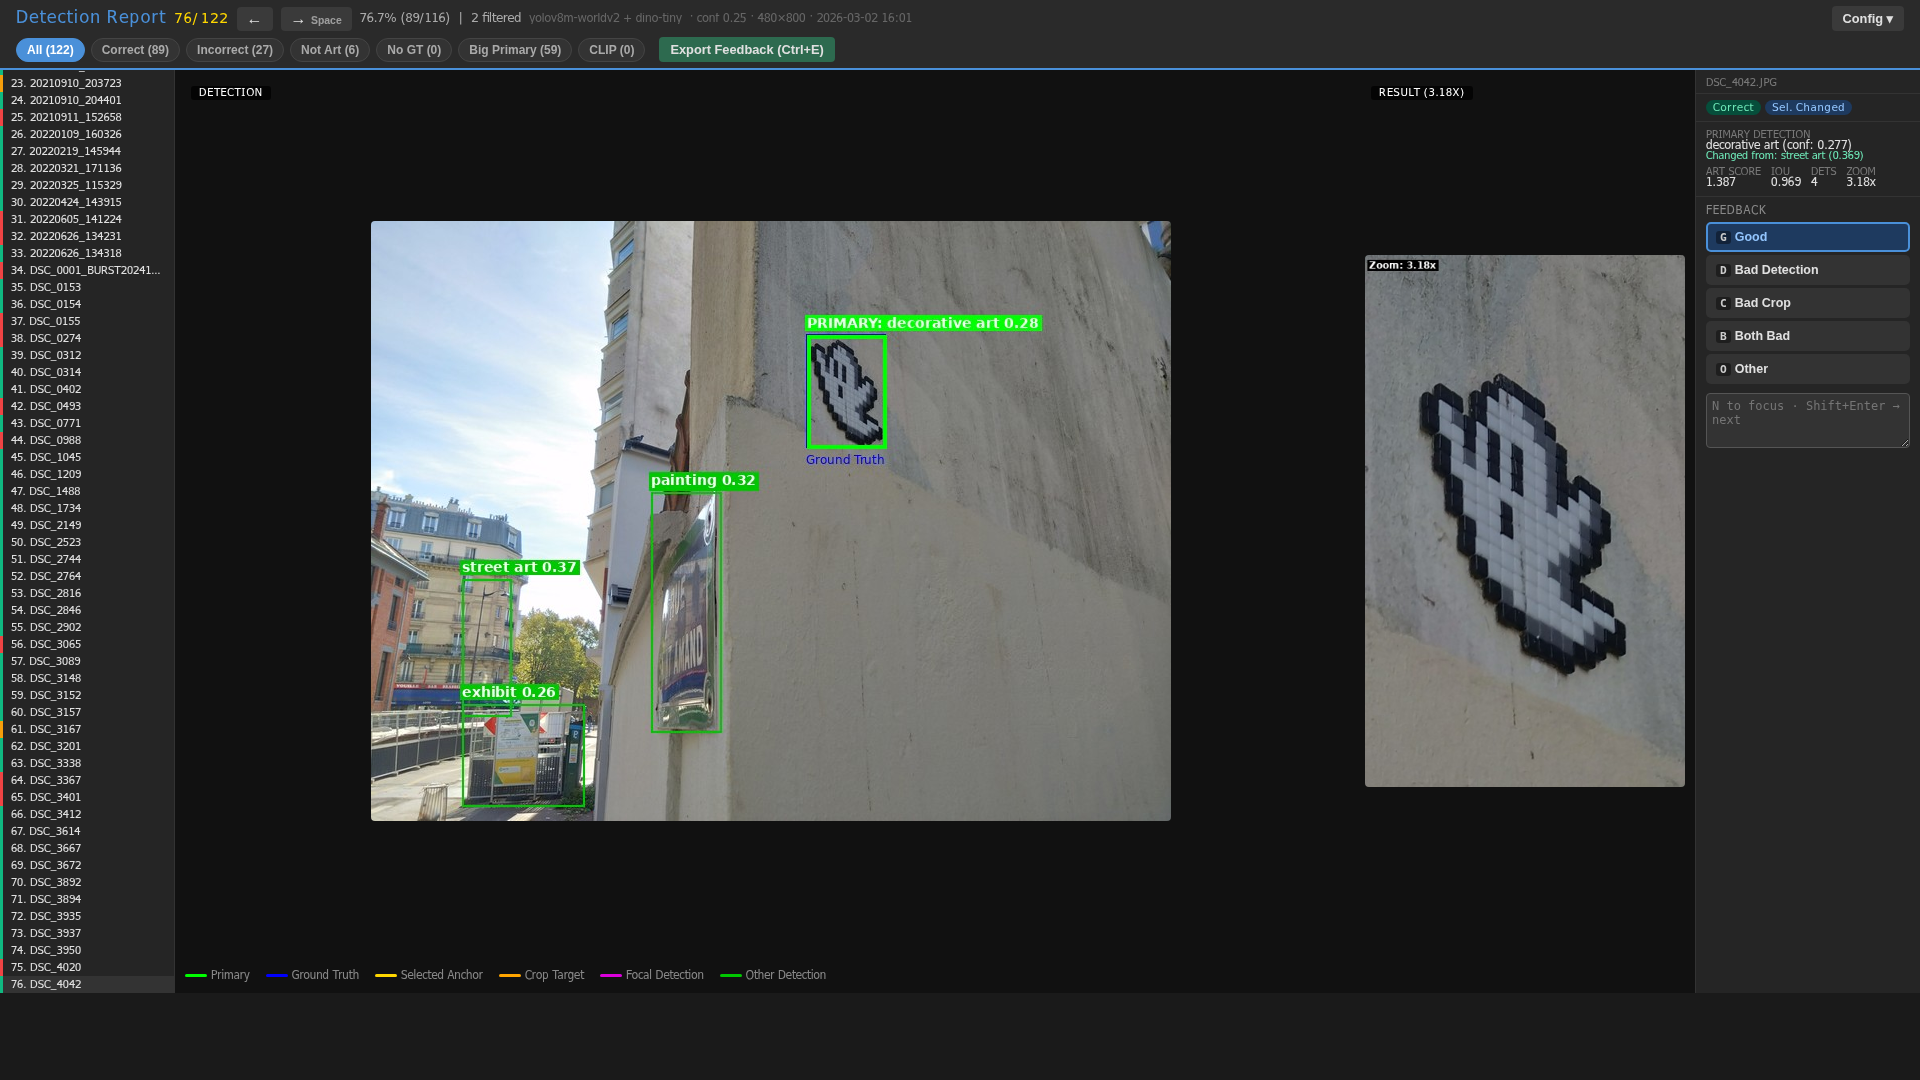
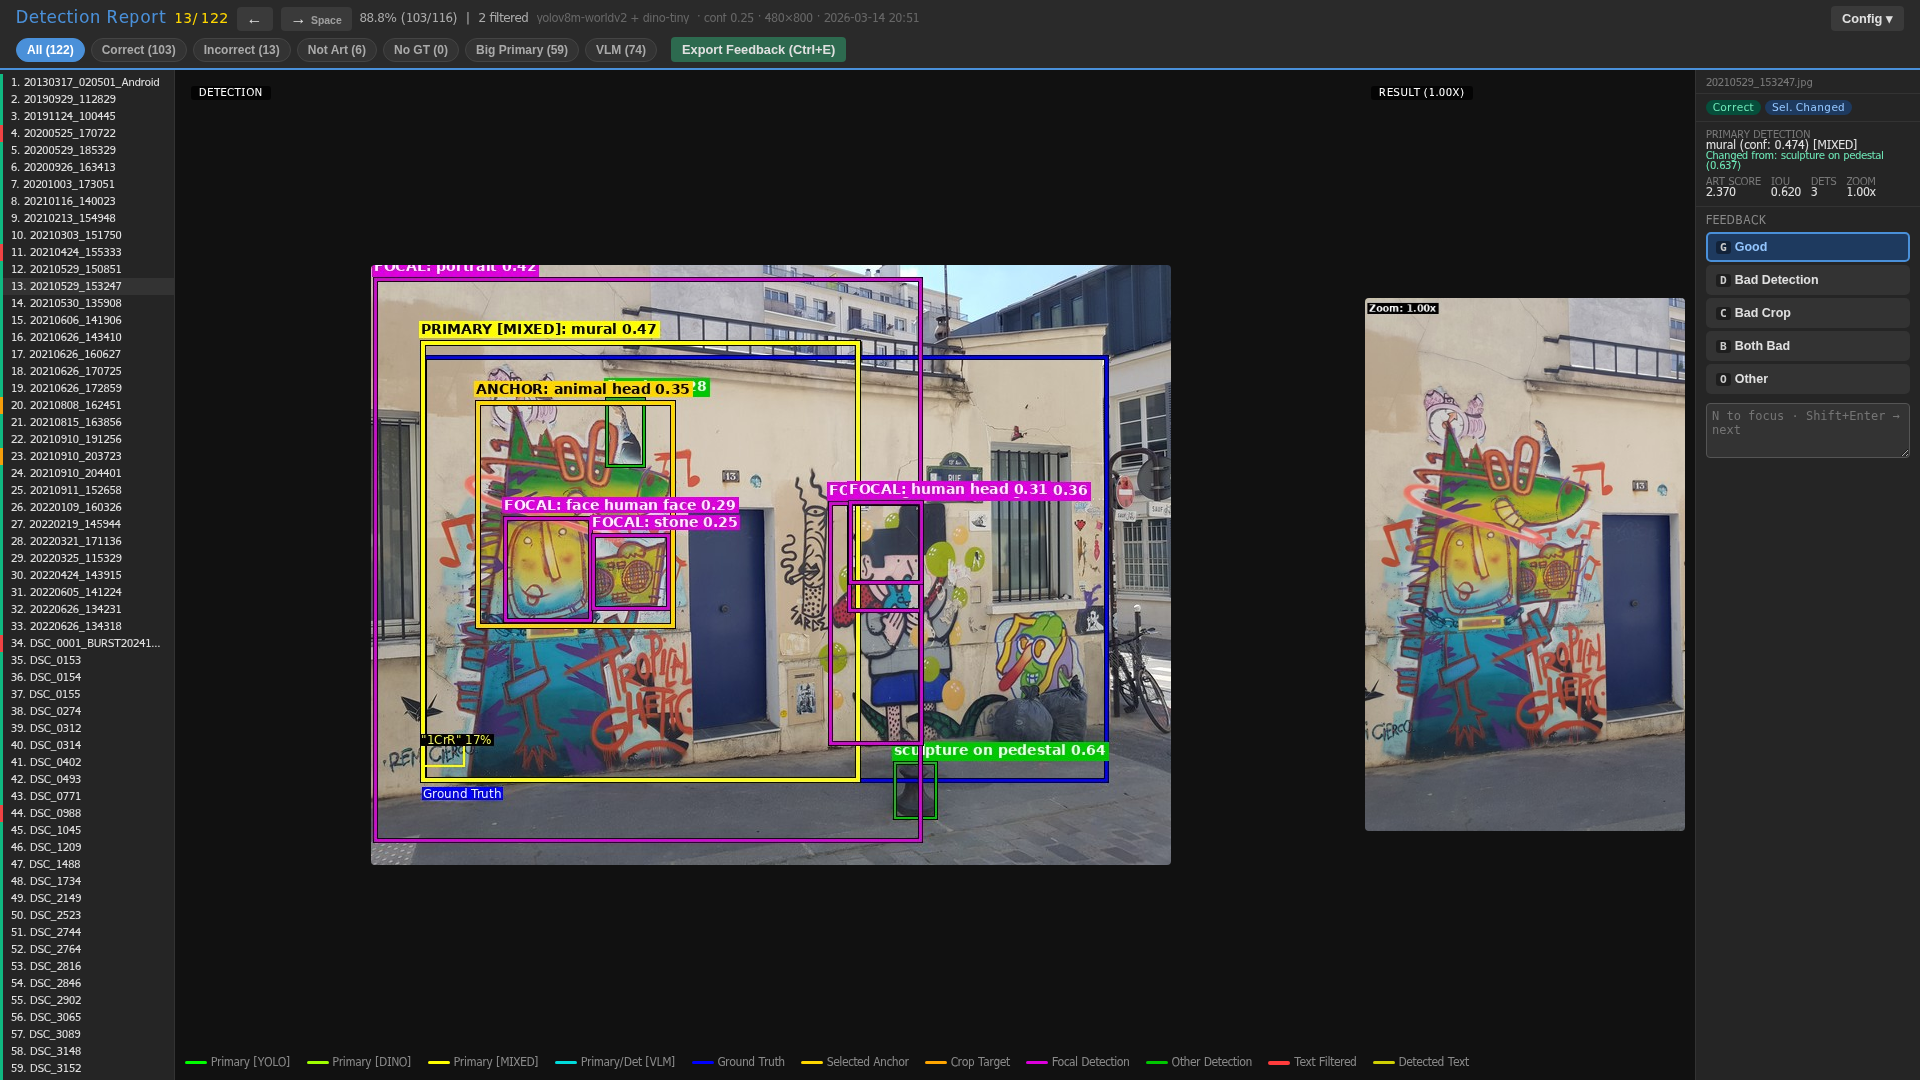
Update README, samples, unify defaults, and document conventions
Samples & README:
- Accuracy: 92% → 94% (115/122), text detection feature added
- New text detection sample (graffiti text filtered + art selected)
- FILTERED placeholder for non-art images in composites
- Updated report screenshot (20210529_153247)
- Sample script regenerates crops from current pipeline

Defaults:
- All defaults (VLM, multi-crop, vlm_max_image_size) now in defaults.py
  as single source of truth — CLI, batch, create_detector all reference it

Documentation:
- CLAUDE.md: sample generation command, pipeline/defaults conventions,
  commit rules for docs/README/samples

diff --git a/scripts/create_sample_composites.py b/scripts/create_sample_composites.py
@@ -1,12 +1,17 @@
 #!/usr/bin/env python3
-"""Create before/after composite images for the README."""
+"""Create before/after composite images and report screenshot for README.
 
+Regenerates crop outputs using the current pipeline (not from stale files).
+"""
+
+import sys
 from PIL import Image, ImageDraw, ImageOps
 from pathlib import Path
 
 BASE = Path(__file__).resolve().parent.parent
+sys.path.insert(0, str(BASE / "src"))
+
 INPUT = BASE / "test_real_images" / "input"
-OUTPUT = BASE / "test_real_images" / "output_optimized"
 SAMPLES = BASE / "samples"
 SAMPLES.mkdir(exist_ok=True)
 
@@ -15,19 +20,94 @@ PAD = 12
 GAP = 28
 BG = (24, 24, 24)
 
+# Lazy-loaded pipeline components
+_detector = None
+_cropper = None
+
+
+def _get_pipeline():
+    global _detector, _cropper
+    if _detector is None:
+        from frame_prep.cli import create_detector, create_cropper
+        from frame_prep import defaults
+        # Use same defaults as CLI (VLM on, multi-crop on, etc.)
+        _detector = create_detector(
+            single_model=False, ensemble=False, model=None,
+            confidence=None, no_two_pass=False, verbose=False)
+        _cropper = create_cropper(
+            width=defaults.TARGET_WIDTH, height=defaults.TARGET_HEIGHT,
+            zoom=defaults.ZOOM_FACTOR)
+    return _detector, _cropper
+
 
 def load_image(path):
     img = Image.open(path)
     return ImageOps.exif_transpose(img)
 
 
-def load_pair(name):
+def _find_input(name):
     for ext in (".JPG", ".jpg", ".jpeg", ".png"):
-        inp = INPUT / f"{name}{ext}"
-        if inp.exists():
-            break
-    out = OUTPUT / f"{name}.jpg"
-    return load_image(inp), load_image(out)
+        p = INPUT / f"{name}{ext}"
+        if p.exists():
+            return p
+    raise FileNotFoundError(f"No input found for {name}")
+
+
+def generate_crop(name):
+    """Generate a fresh crop using the current pipeline.
+
+    Returns None if the image is filtered as non-art.
+    """
+    from frame_prep.pipeline import run_detection_pipeline
+    from frame_prep import defaults
+
+    detector, cropper = _get_pipeline()
+    inp_path = _find_input(name)
+    img = load_image(inp_path)
+    result = run_detection_pipeline(img, detector, cropper, image_path=str(inp_path))
+    if result.art_score < defaults.MIN_ART_SCORE:
+        return None
+    cropped = cropper.crop_image(img, result.filtered_detections,
+                                  focal_detections=result.focal_detections)
+    return cropped
+
+
+def make_filtered_placeholder(width, height):
+    """Create a dark placeholder image with 'FILTERED' text."""
+    from PIL import ImageFont
+    img = Image.new("RGB", (width, height), (40, 40, 40))
+    draw = ImageDraw.Draw(img)
+    try:
+        font = ImageFont.truetype("/usr/share/fonts/truetype/dejavu/DejaVuSans-Bold.ttf", 42)
+    except Exception:
+        font = ImageFont.load_default()
+    label = "FILTERED"
+    bbox = draw.textbbox((0, 0), label, font=font)
+    tw, th = bbox[2] - bbox[0], bbox[3] - bbox[1]
+    draw.text(((width - tw) // 2, (height - th) // 2), label,
+              fill=(255, 80, 80), font=font)
+    # Subtitle
+    try:
+        small = ImageFont.truetype("/usr/share/fonts/truetype/dejavu/DejaVuSans.ttf", 20)
+    except Exception:
+        small = font
+    sub = "non-art (text)"
+    sb = draw.textbbox((0, 0), sub, font=small)
+    sw = sb[2] - sb[0]
+    draw.text(((width - sw) // 2, (height + th) // 2 + 10), sub,
+              fill=(180, 180, 180), font=small)
+    return img
+
+
+def load_pair(name):
+    inp_path = _find_input(name)
+    inp_img = load_image(inp_path)
+    out_img = generate_crop(name)
+    if out_img is None:
+        # Pipeline filtered this image — create placeholder
+        # Match the target aspect ratio (480x800)
+        out_img = make_filtered_placeholder(480, 800)
+    return inp_img, out_img
 
 
 def fit_height(img, h):
@@ -156,17 +236,54 @@ def create_composite(entries, out_name, pair_h=450):
     render(pair_data, pair_h, SAMPLES / out_name)
 
 
+def generate_multi_crops(name):
+    """Generate multi-crop outputs using the current pipeline."""
+    from frame_prep.pipeline import run_detection_pipeline
+
+    detector, cropper = _get_pipeline()
+    inp_path = _find_input(name)
+    img = load_image(inp_path)
+    result = run_detection_pipeline(img, detector, cropper, image_path=str(inp_path))
+    crops = cropper.crop_all_subjects(img, result.filtered_detections,
+                                       focal_detections=result.focal_detections)
+    return [crop_img for crop_img, _, _ in crops]
+
+
+def capture_report_screenshot(image_name=None):
+    """Take a 1080p screenshot of the interactive report."""
+    report_path = BASE / "reports" / "interactive_detection_report.html"
+    if not report_path.exists():
+        print("  Report not found — run 'frame-prep report' first")
+        return
+    print("Capturing report screenshot...")
+    from playwright.sync_api import sync_playwright
+    url = f"file://{report_path}"
+    if image_name:
+        url += f"#{image_name}"
+    with sync_playwright() as p:
+        browser = p.chromium.launch()
+        page = browser.new_page(viewport={"width": 1920, "height": 1080})
+        page.goto(url)
+        page.wait_for_load_state("networkidle")
+        page.wait_for_timeout(1500)
+        page.screenshot(path=str(SAMPLES / "report_screenshot.png"))
+        browser.close()
+    print(f"  Saved: samples/report_screenshot.png")
+
+
 if __name__ == "__main__":
     # Hero: 2 rows
     # Row 1: mural detection + sculpture zoom
     # Row 2: multi-crop street art
-    multi_crop_outputs = [
-        SAMPLES / "DSC_3089_crop_2.jpg",  # geisha
-        SAMPLES / "DSC_3089_crop_1.jpg",  # girl in red
-    ]
+    multi_crops = generate_multi_crops("DSC_3089")
+    # Save crops for the hero composite
+    for i, crop in enumerate(multi_crops):
+        crop.save(SAMPLES / f"DSC_3089_crop_{i+1}.jpg", quality=95)
+    multi_crop_paths = [SAMPLES / f"DSC_3089_crop_{i+1}.jpg" for i in range(len(multi_crops))]
+
     create_hero_two_rows(
         row1_entries=["DSC_3614", "DSC_4168"],
-        row2_entries=[("DSC_3089", multi_crop_outputs)],
+        row2_entries=[("DSC_3089", multi_crop_paths)],
         out_name="hero_samples.jpg",
     )
 
@@ -187,3 +304,14 @@ if __name__ == "__main__":
         ["DSC_0153"],
         "sample_focal_detection.jpg",
     )
+
+    # Text detection: text-heavy primary skipped / filtered
+    # 20210424: graffiti text skipped → rat cook painting selected
+    # DSC_3167: graffiti text "BONNE ANNÉE 2025" correctly filtered as non-art
+    create_composite(
+        ["20210424_155333", "DSC_3167"],
+        "sample_text_detection.jpg",
+    )
+
+    # Report screenshot — show busy detection with off-center focal point
+    capture_report_screenshot("20210529_153247.jpg")

diff --git a/src/frame_prep/cli.py b/src/frame_prep/cli.py
@@ -41,15 +41,15 @@ def common_options(f):
                   help='Disable two-pass center-crop detection (faster, may miss small centered subjects)')
     @click.option('--no-filter', is_flag=True,
                   help='Disable non-art image filtering (process all images regardless of art score)')
-    @click.option('--multi-crop/--no-multi-crop', default=True, show_default=True,
+    @click.option('--multi-crop/--no-multi-crop', default=defaults.MULTI_CROP, show_default=True,
                   help='Generate one crop per viable art subject (e.g., multiple statues or mural panels)')
-    @click.option('--vlm/--no-vlm', default=True, show_default=True,
+    @click.option('--vlm/--no-vlm', default=defaults.USE_VLM, show_default=True,
                   help='VLM fallback: run Qwen3-VL when YOLO/DINO finds nothing '
                        '(first run: ~5-10min/image on CPU; instant from cache after)')
-    @click.option('--vlm-confirm', is_flag=True,
+    @click.option('--vlm-confirm', is_flag=True, default=defaults.VLM_CONFIRM,
                   help='VLM confirmation: run Qwen3-VL on every image to validate/override '
                        'primary selection (implies --vlm; first run ~13h CPU or 4min GPU)')
-    @click.option('--vlm-max-image-size', default=512, type=int, show_default=True,
+    @click.option('--vlm-max-image-size', default=defaults.VLM_MAX_IMAGE_SIZE, type=int, show_default=True,
                   help='Max image dimension for VLM inference')
     @click.option('--vlm-gguf', default=_DEFAULT_VLM_GGUF, type=click.Path(), show_default=False,
                   help=f'Path to Qwen3-VL GGUF model file '
@@ -65,8 +65,9 @@ def common_options(f):
 
 
 def create_detector(single_model, ensemble, model, confidence, no_two_pass, verbose,
-                    use_openvino=False, use_vlm=False, vlm_confirm=False,
-                    vlm_max_image_size=512, vlm_gguf=None, vlm_mmproj=None,
+                    use_openvino=False, use_vlm=defaults.USE_VLM,
+                    vlm_confirm=defaults.VLM_CONFIRM,
+                    vlm_max_image_size=defaults.VLM_MAX_IMAGE_SIZE, vlm_gguf=None, vlm_mmproj=None,
                     vlm_server_port=None):
     """Create a detector instance from CLI flags."""
     if single_model:

diff --git a/src/frame_prep/batch.py b/src/frame_prep/batch.py
@@ -69,9 +69,9 @@ def init_worker(config):
         no_two_pass=not config.get('two_pass', defaults.TWO_PASS),
         verbose=False,
         use_openvino=config.get('use_openvino', True),
-        use_vlm=config.get('use_vlm', False),
-        vlm_confirm=config.get('vlm_confirm', False),
-        vlm_max_image_size=config.get('vlm_max_image_size', 512),
+        use_vlm=config.get('use_vlm', defaults.USE_VLM),
+        vlm_confirm=config.get('vlm_confirm', defaults.VLM_CONFIRM),
+        vlm_max_image_size=config.get('vlm_max_image_size', defaults.VLM_MAX_IMAGE_SIZE),
         vlm_gguf=config.get('vlm_gguf_path'),
         vlm_mmproj=config.get('vlm_mmproj_path'),
         vlm_server_port=config.get('vlm_server_port'),

diff --git a/src/frame_prep/defaults.py b/src/frame_prep/defaults.py
@@ -1,4 +1,8 @@
-"""Default configuration values shared across CLI, scripts, and reports."""
+"""Default configuration values shared across CLI, scripts, and reports.
+
+This is the single source of truth for all defaults. CLI flags, batch
+workers, sample scripts, and report generation all reference these.
+"""
 
 # Target frame dimensions
 TARGET_WIDTH = 480
@@ -8,6 +12,14 @@ TARGET_HEIGHT = 800
 CONFIDENCE_THRESHOLD = 0.25
 MERGE_THRESHOLD = 0.2
 TWO_PASS = True
+
+# VLM
+USE_VLM = True
+VLM_CONFIRM = False
+VLM_MAX_IMAGE_SIZE = 512
+
+# Multi-crop
+MULTI_CROP = True
 
 # Cropping
 ZOOM_FACTOR = 8.0

diff --git a/README.md b/README.md
@@ -7,10 +7,11 @@ Smart image preprocessor for e-ink picture frames. Uses local ML to detect art s
 ## Features
 
 - **ML-powered smart cropping** -- YOLO-World + Grounding DINO ensemble detects art, sculptures, murals, and more
-- **VLM fallback** -- optional Qwen3-VL-2B grounding pass via llama.cpp (~20s/image) activates when YOLO/DINO are uncertain; results cached after first run
+- **VLM fallback** -- Qwen3-VL-2B grounding pass via llama.cpp (~20s/image, cached) activates when YOLO/DINO are uncertain. Enabled by default
+- **Text detection** -- EasyOCR filters signs, labels, and text-heavy regions from primary selection and secondary crops
 - **Focal point detection** -- for large murals that fill the frame, a second Grounding DINO pass finds faces/figures inside the primary to use as the crop anchor
 - **Contextual zoom** -- zooms in on small or distant subjects, leaves large ones untouched
-- **Multi-crop** -- detects multiple art pieces and produces separate crops for each
+- **Multi-crop** -- detects multiple art pieces and produces separate crops for each (enabled by default)
 - **Batch processing** -- parallel workers with model caching
 - **Local processing** -- no cloud dependencies, optional OpenVINO acceleration on Intel
 
@@ -22,11 +23,11 @@ python3 -m venv venv && source venv/bin/activate
 pip install -e .
 python scripts/download_models.py
 
-# Process a single image
+# Process a single image (VLM + multi-crop enabled by default)
 frame-prep process -i photo.jpg -o output/ -v
 
-# With VLM fallback for difficult images (requires models/qwen3vl/ — see docs)
-frame-prep process -i photo.jpg -o output/ --vlm -v
+# Without VLM (faster, slightly lower accuracy)
+frame-prep process -i photo.jpg -o output/ --no-vlm -v
 
 # Batch process a directory
 frame-prep batch -i ~/photos/art/ -o ~/photos/processed/ --skip-existing
@@ -48,6 +49,10 @@ Output is 480x800 JPEG by default (3:5 portrait ratio for e-ink frames).
 
 ![Focal detection sample](samples/sample_focal_detection.jpg)
 
+**Text detection** -- EasyOCR filters text-heavy detections (signs, labels), selecting the actual artwork instead:
+
+![Text detection sample](samples/sample_text_detection.jpg)
+
 ## Documentation
 
 - **[Usage Reference](docs/USAGE.md)** -- full CLI options, cropping strategies, performance tuning
@@ -67,7 +72,7 @@ frame-prep report
 
 ![Interactive detection report](samples/report_screenshot.png)
 
-Current accuracy: **92% IoU hit rate** on 122-image ground truth test set (with `--vlm`; 88% without).
+Current accuracy: **94% IoU hit rate** (115/122) on ground truth test set (with `--vlm`; 88% without).
 
 ## Related Projects
 

diff --git a/CLAUDE.md b/CLAUDE.md
@@ -30,13 +30,23 @@ venv/bin/python -m frame_prep.cli report
 
 Output: `reports/interactive_detection_report.html`. Use `/report` to generate in background.
 
+## Sample images for README
+
+```bash
+venv/bin/python scripts/create_sample_composites.py
+```
+
+Regenerates all sample composites and the report screenshot using the current pipeline. Outputs to `samples/`. Uses playwright for the screenshot — requires `venv/bin/playwright install chromium`.
+
 ## Key conventions
 
 - **Current detector class**: `OptimizedEnsembleDetector` (not `ArtFeatureDetector` — that's been removed)
 - **Current cropper class**: `SmartCropper`
 - **Text detection**: `TextDetector` in `analyzer.py` uses EasyOCR `readtext()` at 320px to filter text-heavy regions (signs, labels). Threshold: >15% text ratio. Versioned cache in `cache/text_detect/`. Uses Shoelace formula for polygon area, filters short/low-conf OCR results.
 - CLI entry point: `frame_prep.cli` (subcommands: `process`, `batch`, `report`)
+- **Defaults**: All defaults live in `defaults.py` as the single source of truth. CLI flags, batch workers, sample scripts, and `create_detector()` all reference it. Don't hardcode default values elsewhere.
 - CLI defaults: `--vlm` and `--multi-crop` are on by default; use `--no-vlm` / `--no-multi-crop` to disable
+- **Pipeline**: `pipeline.py` contains the shared detection pipeline (`run_detection_pipeline()`). Both `preprocessor.py` and `report.py` call it — don't duplicate detection logic.
 - Test dataset: `test_real_images/` (122 images with ground truth annotations)
 
 ## Experimental features
@@ -59,6 +69,8 @@ Proactively suggest improvements at the end of a session if patterns emerged.
 ## Committing
 
 - **Update docs before committing** — update BACKLOG.md, MEMORY.md, and CLAUDE.md with relevant findings before creating the commit, and include them in the same commit.
+- **Update README.md** when user-facing behavior changes (accuracy, features, CLI defaults).
+- **Regenerate samples** when detection or crop behavior changes: `venv/bin/python scripts/create_sample_composites.py`. Include updated samples in the commit.
 
 ## Running commands
 
